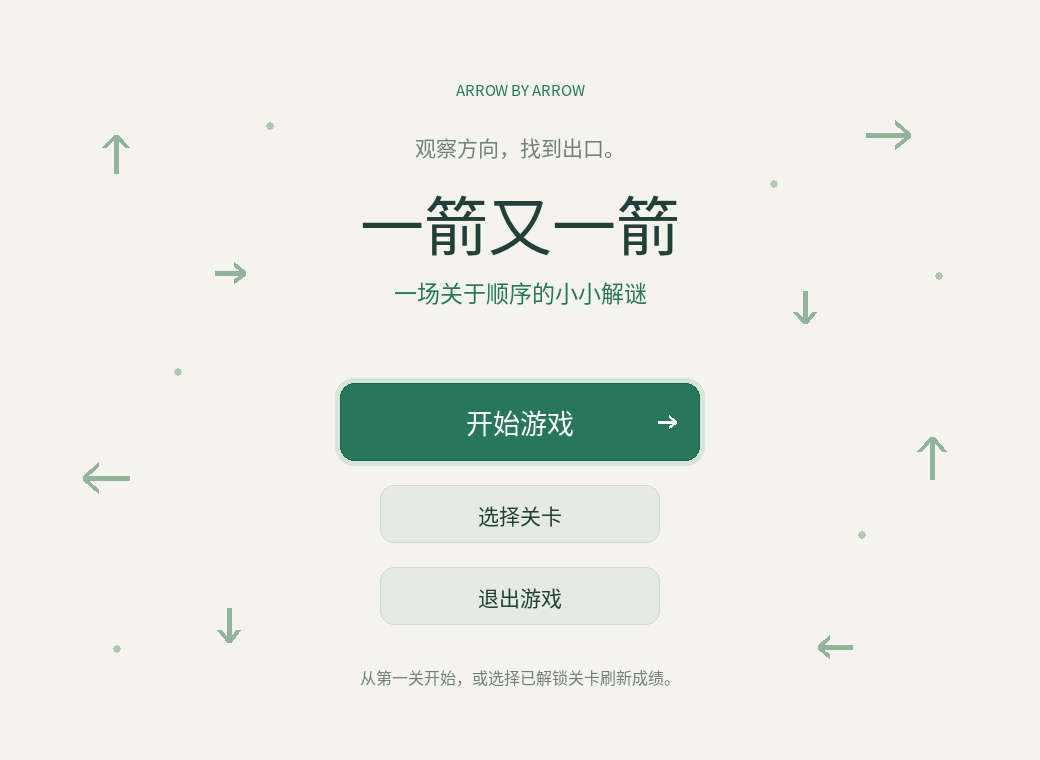
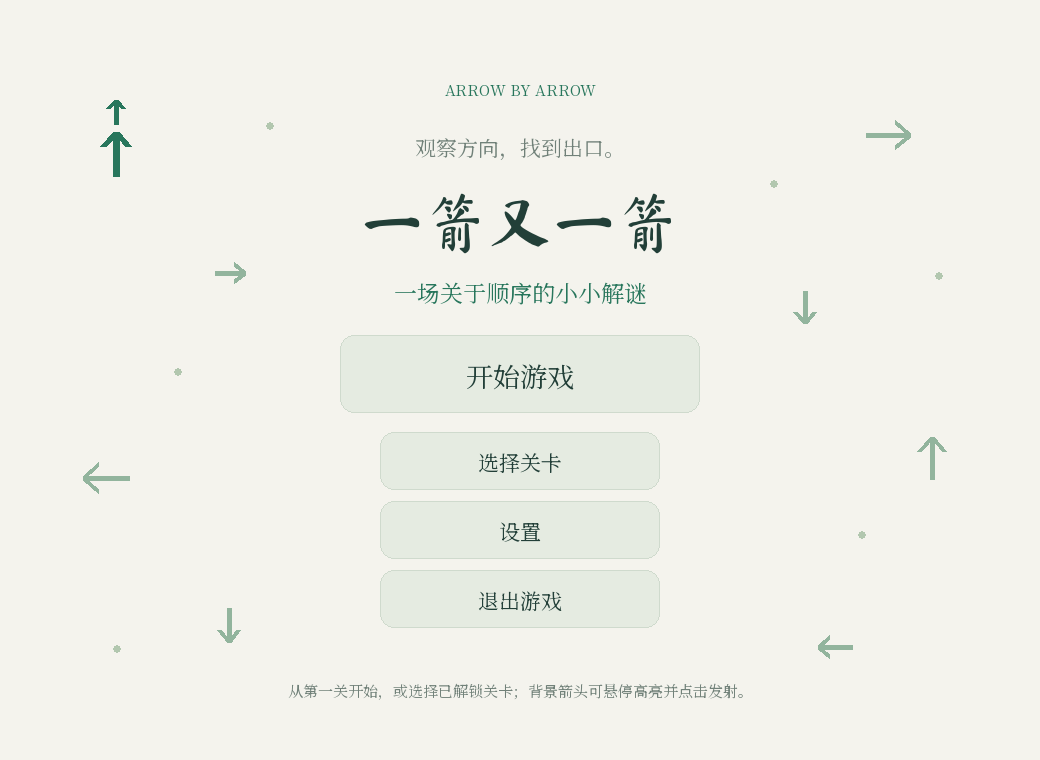
feat: make menu background arrows interactive

diff --git a/main.py b/main.py
@@ -65,6 +65,11 @@ THEMES = {
     },
 }
 THEME_OPTIONS = (('day', '白天模式'), ('eye', '护眼模式'), ('night', '夜间模式'))
+MENU_MOTIFS = (
+    (116, 154, 'U', 38), (230, 273, 'R', 30), (106, 478, 'L', 46),
+    (229, 625, 'D', 34), (888, 135, 'R', 44), (805, 307, 'D', 32),
+    (932, 458, 'U', 42), (835, 647, 'L', 34),
+)
 
 
 class AudioManager:
@@ -252,6 +257,8 @@ class App:
         self.sliders = {}
         self.dragging_slider = None
         self.theme_mode = 'day'
+        self.pointer_pos = pygame.mouse.get_pos()
+        self.background_arrow_flight = None
         self.board_rect = pygame.Rect(64, 190, 540, 480)
         self.cell = 80
         self.notice = '点击箭头，让通路逐渐打开。'
@@ -394,13 +401,48 @@ class App:
         if hover:
             self.arrow((rect.right-33, rect.centery), 'R', 'white', 18, 3)
 
+    def background_motif_at(self, pos):
+        """返回鼠标命中的首页背景箭头编号；命中区比线条略宽，便于操作。"""
+        px, py = pos
+        for index, (x, y, _direction, length) in enumerate(MENU_MOTIFS):
+            radius = max(22, length * 0.62)
+            if (px - x) ** 2 + (py - y) ** 2 <= radius ** 2:
+                return index
+        return None
+
+    def launch_background_arrow(self, index):
+        """启动首页背景箭头的装饰性飞行动画。"""
+        if not 0 <= index < len(MENU_MOTIFS):
+            return False
+        self.background_arrow_flight = [index, 0.0]
+        return True
+
+    def update_background_animation(self, dt):
+        """更新首页背景箭头动画；不占用关卡计时。"""
+        if self.background_arrow_flight is None:
+            return
+        index, progress = self.background_arrow_flight
+        progress += max(0.0, dt) / 0.55
+        self.background_arrow_flight = None if progress >= 1.0 else [index, progress]
+
     def draw_menu(self):
         # 装饰直接画在背景上，不使用独立卡片；中间留白保证阅读。
-        motifs = [(116,154,'U',38), (230,273,'R',30), (106,478,'L',46),
-                  (229,625,'D',34), (888,135,'R',44), (805,307,'D',32),
-                  (932,458,'U',42), (835,647,'L',34)]
-        for x,y,d,length in motifs:
-            self.arrow((x,y), d, '#92B49D', length, 5)
+        hover_index = self.background_motif_at(self.pointer_pos)
+        flight = self.background_arrow_flight
+        flight_index = flight[0] if flight else None
+        flight_progress = flight[1] if flight else 0.0
+        for index, (x, y, d, length) in enumerate(MENU_MOTIFS):
+            active = index in (hover_index, flight_index)
+            color = THEMES[self.theme_mode]['green'] if active else '#92B49D'
+            if active:
+                self.arrow((x, y), d, color, length + 6, 7)
+            else:
+                self.arrow((x, y), d, color, length, 5)
+            if index == flight_index:
+                dr, dc = DIRECTIONS[d]
+                offset = (length + 76) * flight_progress
+                self.arrow((x + dc * offset, y + dr * offset), d,
+                           color, max(18, length * 0.65), 5)
         for x,y in [(178,372),(862,535),(270,126),(939,276),(117,649),(774,184)]:
             pygame.draw.circle(self.screen, self.theme_color('#B2C7AF'), (x,y), 4)
         cx = WIDTH//2
@@ -412,7 +454,8 @@ class App:
         self.home_button('select', '选择关卡', 432)
         self.home_button('settings', '设置', 501)
         self.home_button('quit', '退出游戏', 570)
-        self.text('从第一关开始，或选择已解锁关卡刷新成绩。', (cx,690), 16, MUTED, True)
+        self.text('从第一关开始，或选择已解锁关卡；背景箭头可悬停高亮并点击发射。',
+                  (cx,690), 15, MUTED, True)
         if self.game.progress.message:
             self.text(self.game.progress.message, (cx,730), 16, '#B95D43', True)
 
@@ -663,6 +706,8 @@ class App:
             elif g.state in ('LEVEL_CLEAR','ALL_CLEAR','GAME_OVER'): self.start(g.level_index)
 
     def handle_event(self,event):
+        if hasattr(event, 'pos'):
+            self.pointer_pos = event.pos
         if event.type==pygame.QUIT:
             self.action('quit')
         elif event.type==pygame.KEYDOWN:
@@ -697,6 +742,11 @@ class App:
                 elif result=='exit':
                     self.audio.play_effect('fly')
                     self.notice='通路畅通，箭头飞出！'
+            elif self.game.state == 'MENU':
+                motif = self.background_motif_at(event.pos)
+                if motif is not None:
+                    self.audio.play_effect('fly')
+                    self.launch_background_arrow(motif)
         elif event.type==pygame.MOUSEMOTION and self.dragging_slider:
             if event.buttons[0]:
                 self.set_slider_value(self.dragging_slider, event.pos[0])
@@ -717,6 +767,7 @@ class App:
                 continue
             # 不截断 dt：低帧率、窗口拖动等期间也必须累计实际经过时间。
             dt=self.clock.tick(60)/1000
+            self.update_background_animation(dt)
             self.game.update(dt)
             if self.game.auto_step_started:
                 self.audio.play_effect('fly')

diff --git a/tests/test_ui.py b/tests/test_ui.py
@@ -5,7 +5,7 @@ os.environ.setdefault('SDL_AUDIODRIVER','dummy')
 import unittest
 from pathlib import Path
 import pygame
-from main import App
+from main import App, MENU_MOTIFS
 from logic import can_exit, solve
 from levels import LEVELS
 
@@ -180,6 +180,21 @@ class UITests(unittest.TestCase):
                 break
         self.assertEqual(self.app.game.state, 'LEVEL_CLEAR')
         self.assertFalse(self.app.game.auto_solving)
+
+    def test_background_arrow_hover_and_launch(self):
+        x, y, _direction, _length = MENU_MOTIFS[0]
+        self.assertEqual(self.app.background_motif_at((x, y)), 0)
+        self.assertIsNone(self.app.background_motif_at((520, 120)))
+        self.app.pointer_pos = (x, y)
+        self.app.draw()
+        self.app.handle_event(pygame.event.Event(
+            pygame.MOUSEBUTTONDOWN, button=1, pos=(x, y)))
+        self.assertEqual(self.app.game.state, 'MENU')
+        self.assertEqual(self.app.background_arrow_flight[0], 0)
+        self.app.update_background_animation(0.3)
+        self.assertIsNotNone(self.app.background_arrow_flight)
+        self.app.update_background_animation(0.3)
+        self.assertIsNone(self.app.background_arrow_flight)
 
     def test_ready_screen_waits_for_confirmation(self):
         self.assertGreater(self.app.buttons['start'].width,self.app.buttons['select'].width)

diff --git a/docs/capture_demo.py b/docs/capture_demo.py
@@ -7,7 +7,7 @@ import sys
 from pathlib import Path
 sys.path.insert(0,str(Path(__file__).resolve().parents[1]))
 import pygame
-from main import App
+from main import App, MENU_MOTIFS
 from logic import EXIT_DURATION, can_exit, solve
 
 out=Path(__file__).resolve().parent
@@ -16,6 +16,12 @@ def capture(name):
     app.draw()
     pygame.image.save(app.screen,str(out/name))
 capture('01_menu.png')
+x, y, _direction, _length = MENU_MOTIFS[0]
+app.pointer_pos = (x, y)
+app.launch_background_arrow(0)
+app.update_background_animation(0.2)
+capture('10_home_hover.png')
+app.background_arrow_flight = None
 app.start(0)
 app.action('begin')
 capture('02_game.png')
@@ -65,4 +71,4 @@ capture('13_settings_day.png')
 app.action('theme_night')
 capture('14_settings_night.png')
 pygame.quit()
-print('Saved 12 screenshots')
+print('Saved 13 screenshots')

diff --git a/README.md b/README.md
@@ -89,7 +89,7 @@ python3.12 -m venv .venv
 | `levels.py` | 五个固定关卡及难度配置 |
 | `tests/test_logic.py` | 12 项核心规则测试 |
 | `tests/test_timer.py` | 9 项计时、评级边界和超时测试 |
-| `tests/test_ui.py` | 9 项界面事件流程测试 |
+| `tests/test_ui.py` | 10 项界面事件流程测试 |
 | `tests/test_audio.py` | 8 项音频与结果页测试 |
 | `assets/` | 中文字体、字体许可证及音频资源 |
 | `docs/` | 截图、开发记录、测试报告、PSP 表与通关顺序 |
@@ -117,7 +117,7 @@ python3.12 -m venv .venv
 python -m unittest discover -s tests -v
 ```
 
-47 项测试已在 Linux / Python 3.12.14 / pygame-ce 2.5.8 环境通过。界面测试使用 SDL dummy 驱动和模拟鼠标事件，可在无桌面环境运行；覆盖五关完整通关、难度评级阈值、难度解锁、旧存档迁移、失败重开、重复点击、中途重开、结果页返回首页、随机失败音效、设置页交互、用户指定字体加载和当前关卡自动求解。
+48 项测试已在 Linux / Python 3.12.14 / pygame-ce 2.5.8 环境通过。界面测试使用 SDL dummy 驱动和模拟鼠标事件，可在无桌面环境运行；覆盖五关完整通关、难度评级阈值、难度解锁、旧存档迁移、失败重开、重复点击、中途重开、结果页返回首页、随机失败音效、设置页交互、用户指定字体加载、当前关卡自动求解和首页背景箭头交互。
 
 原始输出见 `docs/test_output.txt`。自动化测试不替代本人试玩：Windows 桌面实机运行、主观动画流畅度以及每关人工试玩，需下载后确认。
 
@@ -143,7 +143,7 @@ git clone history/development.bundle ../arrow-game-repo
 
 首页在“选择关卡”与“退出游戏”之间提供“设置”，四个入口沿用统一的居中布局和悬停逻辑；设置页可调节两类音量并切换显示主题。退出游戏会播放一条新失败音效后正常结束主循环并关闭窗口。
 
-游戏页提供“提示 H”和“自动求解 A”。自动求解会调用当前棋盘求解器，按正常飞出动画和计时逐步完成当前关卡；执行期间锁定手动棋盘点击，但仍可返回首页或重新开始。
+游戏页提供“提示 H”和“自动求解 A”。自动求解会调用当前棋盘求解器，按正常飞出动画和计时逐步完成当前关卡；执行期间锁定手动棋盘点击，但仍可返回首页或重新开始。首页背景箭头支持鼠标悬停高亮，点击后会沿箭头方向播放飞出动画，不影响菜单按钮和关卡计时。
 
 ## 音乐与音效
 

diff --git a/docs/TEST_REPORT.md b/docs/TEST_REPORT.md
@@ -2,7 +2,7 @@
 
 环境：Linux、Python 3.12.14、pygame-ce 2.5.8；界面用 SDL dummy 驱动进行无窗口渲染和模拟鼠标事件测试。
 
-结果：47 项 unittest 测试通过。原始输出见 `test_output.txt`。
+结果：48 项 unittest 测试通过。原始输出见 `test_output.txt`。
 
 | 编号 | 内容 | 预期 | 本次实际结果 |
 | --- | --- | --- | --- |
@@ -49,7 +49,7 @@
 
 ## 首页视觉更新
 
-检查居中布局、上下按钮间隔及实际悬停截图 `10_home_hover.png`，无文本重叠。重新执行原有 31 项测试，全部通过。
+检查居中布局、上下按钮间隔及实际悬停截图 `10_home_hover.png`，无文本重叠；该截图同时验证背景箭头悬停高亮和沿方向发射效果。重新执行原有 31 项测试，全部通过。
 
 ## 开始前规则页
 
@@ -86,3 +86,7 @@
 ## 当前关卡自动求解
 
 游戏页新增“自动求解 A”按钮。点击后调用当前棋盘的 `solve()`，按正常飞出动画逐步清除箭头，仍然计时并正常触发评级、解锁和音效；自动过程中棋盘点击会被忽略，返回首页或重新开始可以中断。逻辑和 UI 测试均已覆盖，全套测试更新为 47 项。
+
+## 首页背景箭头交互
+
+验证首页八个背景箭头均有可操作命中区域：鼠标移动到箭头上时加粗并高亮，点击后沿当前方向播放装饰性飞出动画；动画结束后回到普通背景状态，菜单按钮和关卡状态不受影响。新增 UI 测试，全套测试为 48 项。
